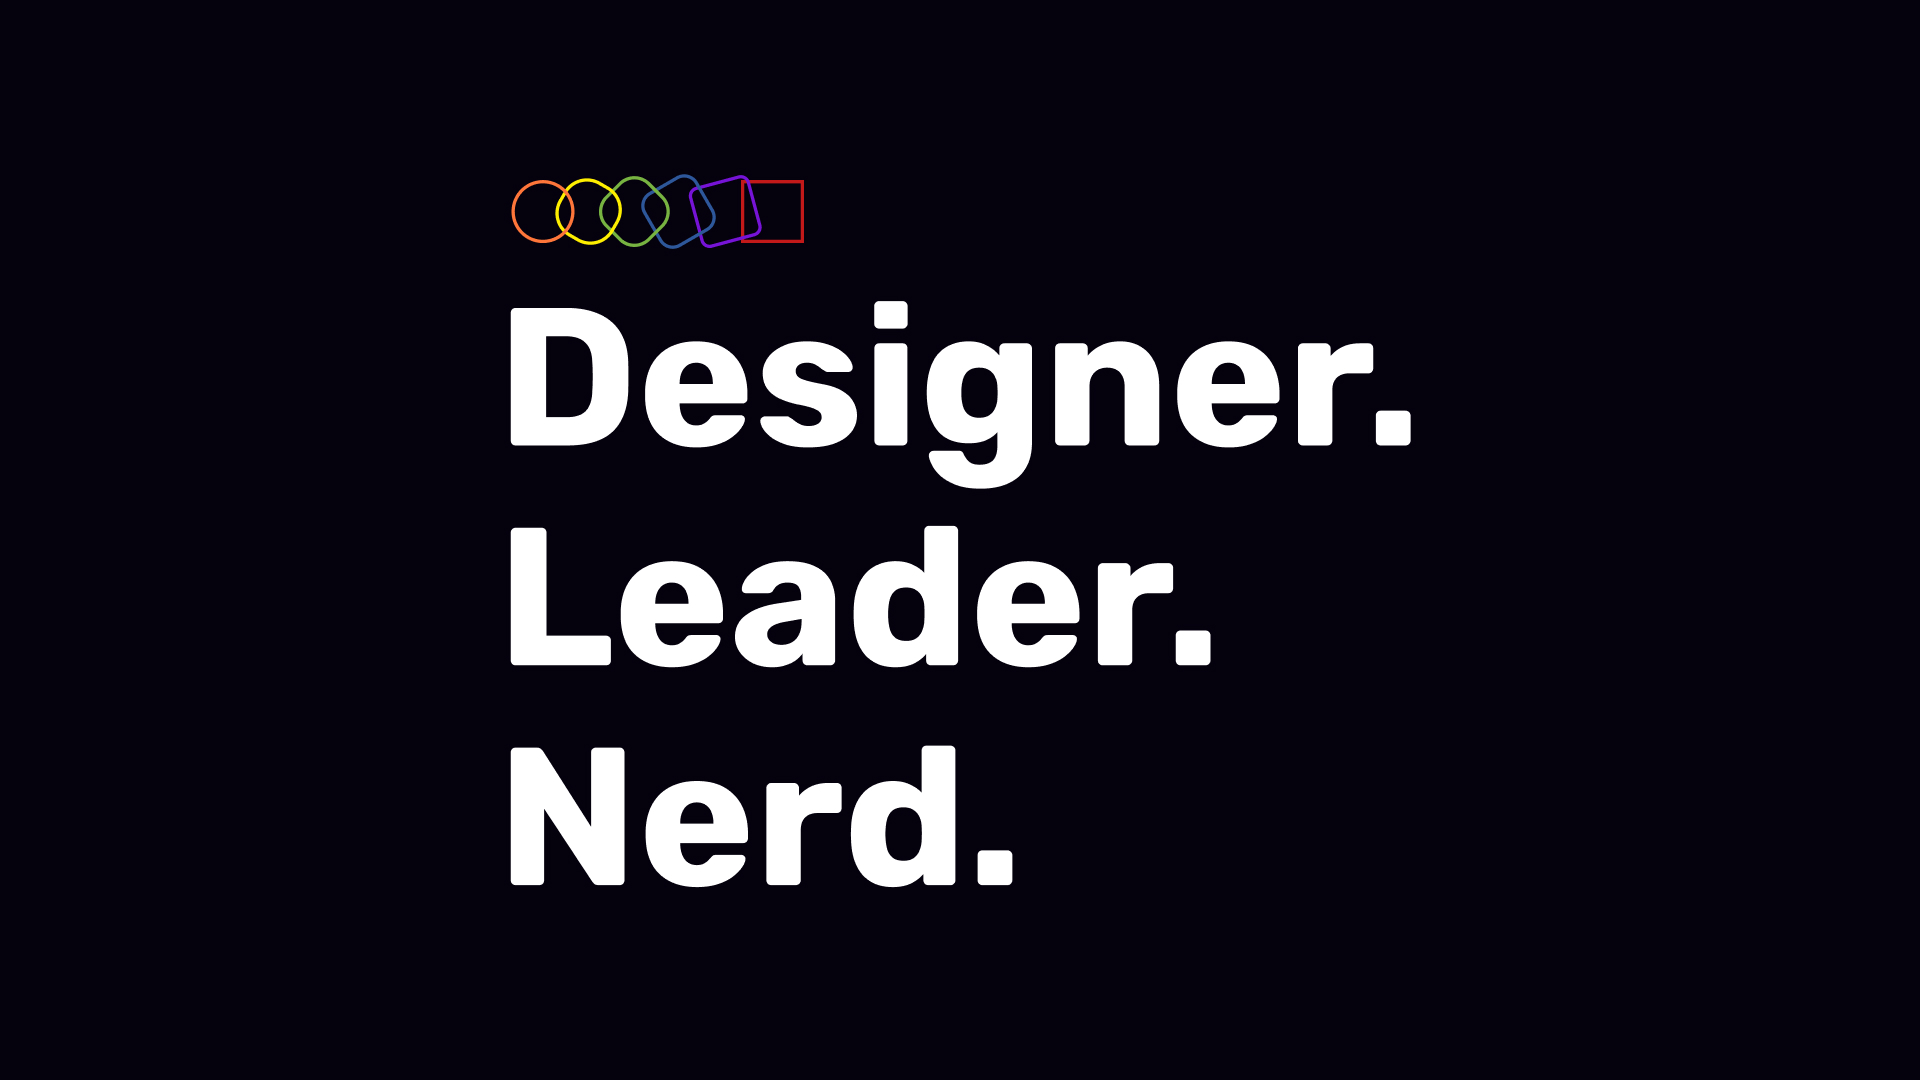
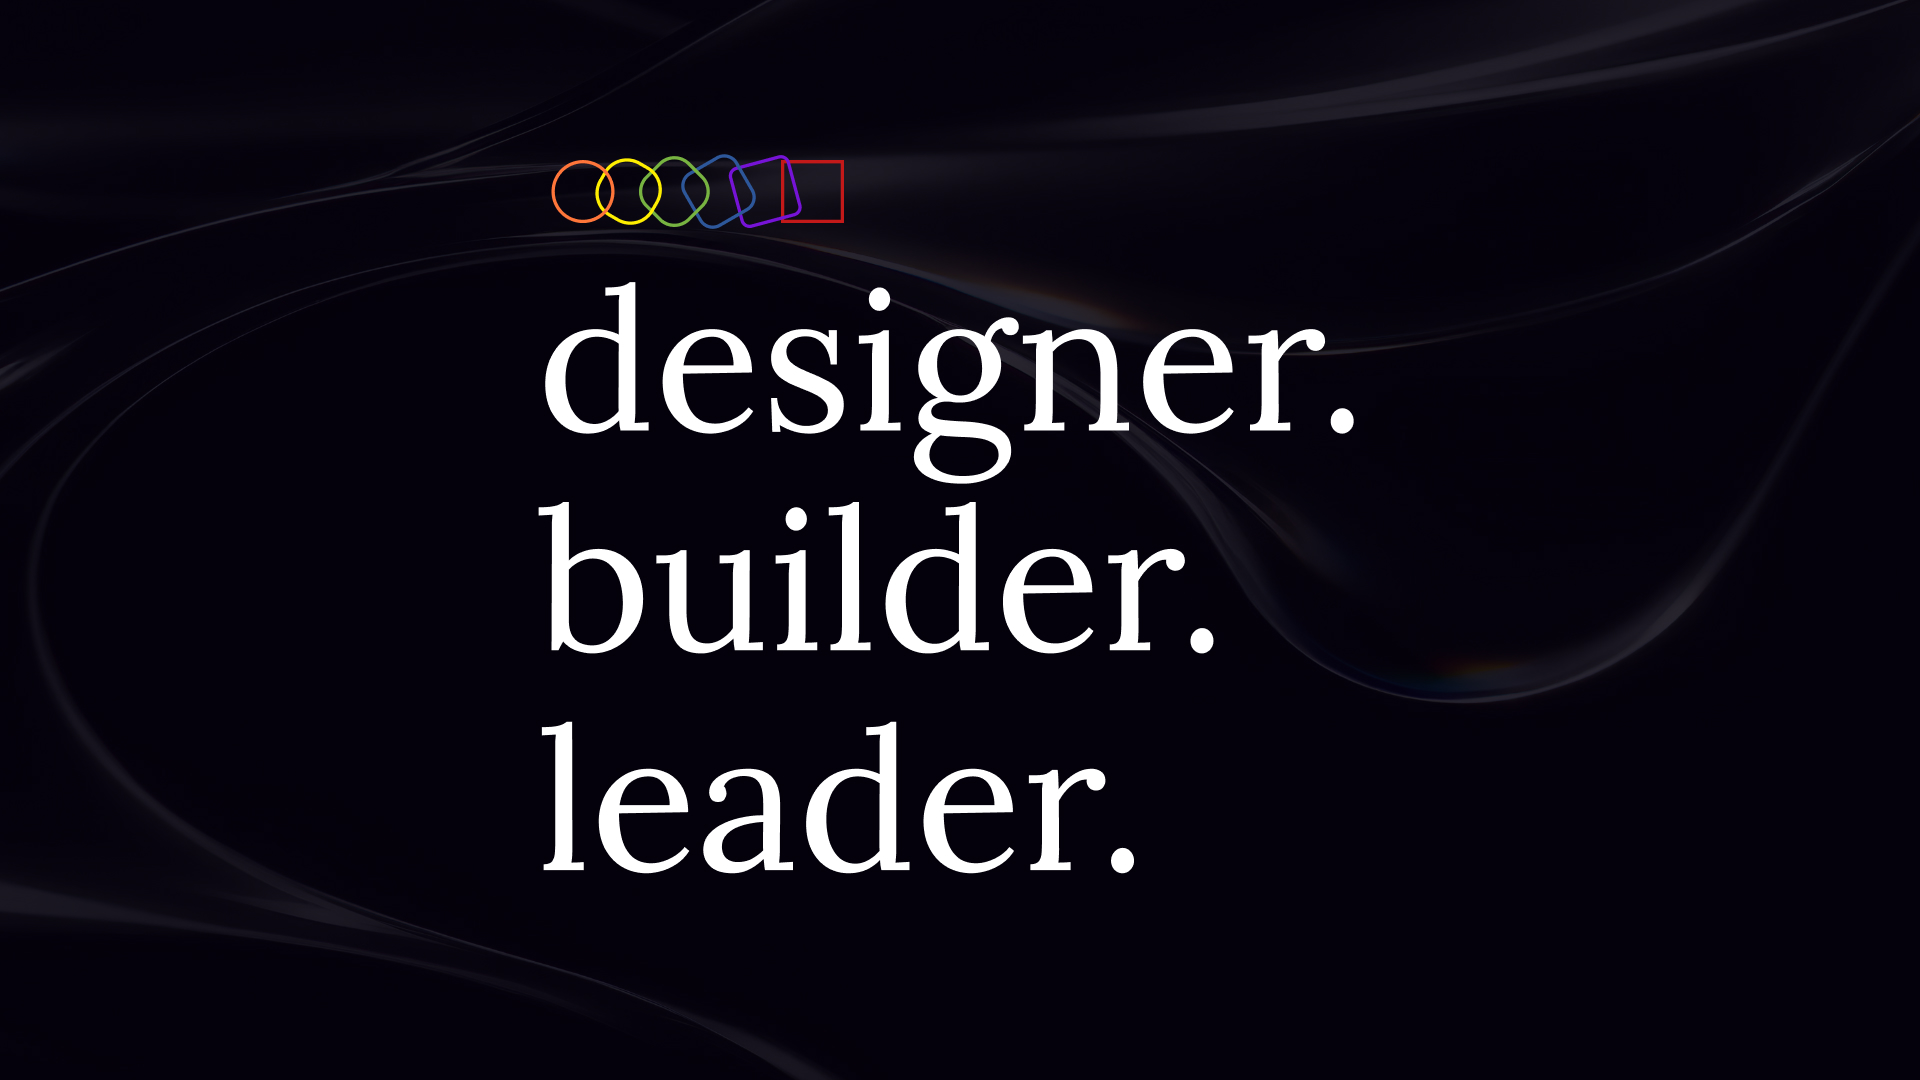
feat: update new content

diff --git a/src/app/about/page.tsx b/src/app/about/page.tsx
@@ -9,7 +9,6 @@ import maxNeonPortrait from "@assets/img/about/max-neon-portrait.jpg";
 
 export const metadata: Metadata = {
     title: "About",
-    description: "A little about Max McKinney from the garage, the builds, the craft, and the in-between.",
 };
 
 function PhotoTile({ photo, priority = false }: { photo: Photo; priority?: boolean }) {
@@ -20,7 +19,14 @@ function PhotoTile({ photo, priority = false }: { photo: Photo; priority?: boole
         // own aspect ratio, so heights vary across the row.
         <figure className="group min-w-0 w-[78%] shrink-0 snap-start sm:w-auto sm:flex-1">
             <div className={`relative w-full overflow-hidden rounded-lg bg-[#0c0c12] ${aspectClass[photo.aspect]}`}>
-                <Image src={photo.src} alt={photo.caption} fill priority={priority} sizes="(max-width: 640px) 78vw, 15vw" className="object-cover transition-transform duration-700 ease-out group-hover:scale-[1.04]" />
+                <Image
+                    src={photo.src}
+                    alt={photo.caption}
+                    fill
+                    priority={priority}
+                    sizes="(max-width: 640px) 78vw, 15vw"
+                    className="object-cover transition-transform duration-700 ease-out group-hover:scale-[1.04]"
+                />
             </div>
             <figcaption className="mt-3 font-serif text-sm italic text-zinc-400">{photo.caption}</figcaption>
         </figure>
@@ -33,7 +39,14 @@ export default function AboutPage() {
             {/* Bio */}
             <FadeIn dir="up" duration={1} as="div" className="mt-28 max-w-3xl sm:mt-40">
                 <div className="relative h-32 w-32 mb-8 lg:h-40 lg:w-40">
-                    <Image src={maxNeonPortrait} alt={"Photo of Max McKinney, behind a neon sign, looking at the camera"} fill priority sizes="(min-width: 1024px) 160px, 128px" className="object-cover w-60 rounded-full" />
+                    <Image
+                        src={maxNeonPortrait}
+                        alt={"Photo of Max McKinney, behind a neon sign, looking at the camera"}
+                        fill
+                        priority
+                        sizes="(min-width: 1024px) 160px, 128px"
+                        className="object-cover w-60 rounded-full"
+                    />
                     <Tooltip content={<>👋 Thanks for stopping by!</>} className="absolute bottom-0 right-0">
                         <span className="animate-hand-wave inline-block text-4xl lg:text-5xl">👋</span>
                     </Tooltip>

diff --git a/src/app/personal/page.tsx b/src/app/personal/page.tsx
@@ -1,4 +1,4 @@
-import { MHeading01, MBodyXL, MHeading02 } from "@/app/components/Typography";
+import { MBodyXL, MHeading02 } from "@/app/components/Typography";
 import PersonalGrid, { PersonalGridProject } from "./PersonalGrid";
 import { getAllPersonalProjects } from "@/app/fetchers";
 import { Metadata } from "next";
@@ -6,8 +6,7 @@ import { FadeIn } from "@/app/components/Anim";
 
 export const metadata: Metadata = {
     title: "Personal",
-    description:
-        "These are some of my personal projects. I dabble in a lot, but primarily in web tech, native apps, and educational design content. There’s probably something here to catch your interest.",
+    description: "Designing and engineering, specifically around web technologies, native applications, and educational content, are my passion.",
 };
 
 export default async function () {

diff --git a/src/siteConfig.ts b/src/siteConfig.ts
@@ -1,5 +1,5 @@
 export default {
     title: "Max McKinney",
-    description: "I’m Max McKinney, a designer and engineer, building for empathy and humanizing technology. I specialize in web experiences and thrive in undefined problem spaces.",
+    description: "I’m Max McKinney, a designer and engineer building for empathy and humanizing technology. I specialize in web experiences and thrive in undefined problem spaces.",
     siteUrl: "https://maxmckinney.com",
 };

diff --git a/src/app/work/[slug]/page.tsx b/src/app/work/[slug]/page.tsx
@@ -1,4 +1,3 @@
-import Image from "next/image";
 import { MHeading01, MBodyXL } from "@/app/components/Typography";
 import { ProjectDir, getAllWorkProjects, getMarkdownBySlug } from "@/app/fetchers";
 import { WorkProject } from "@/types";